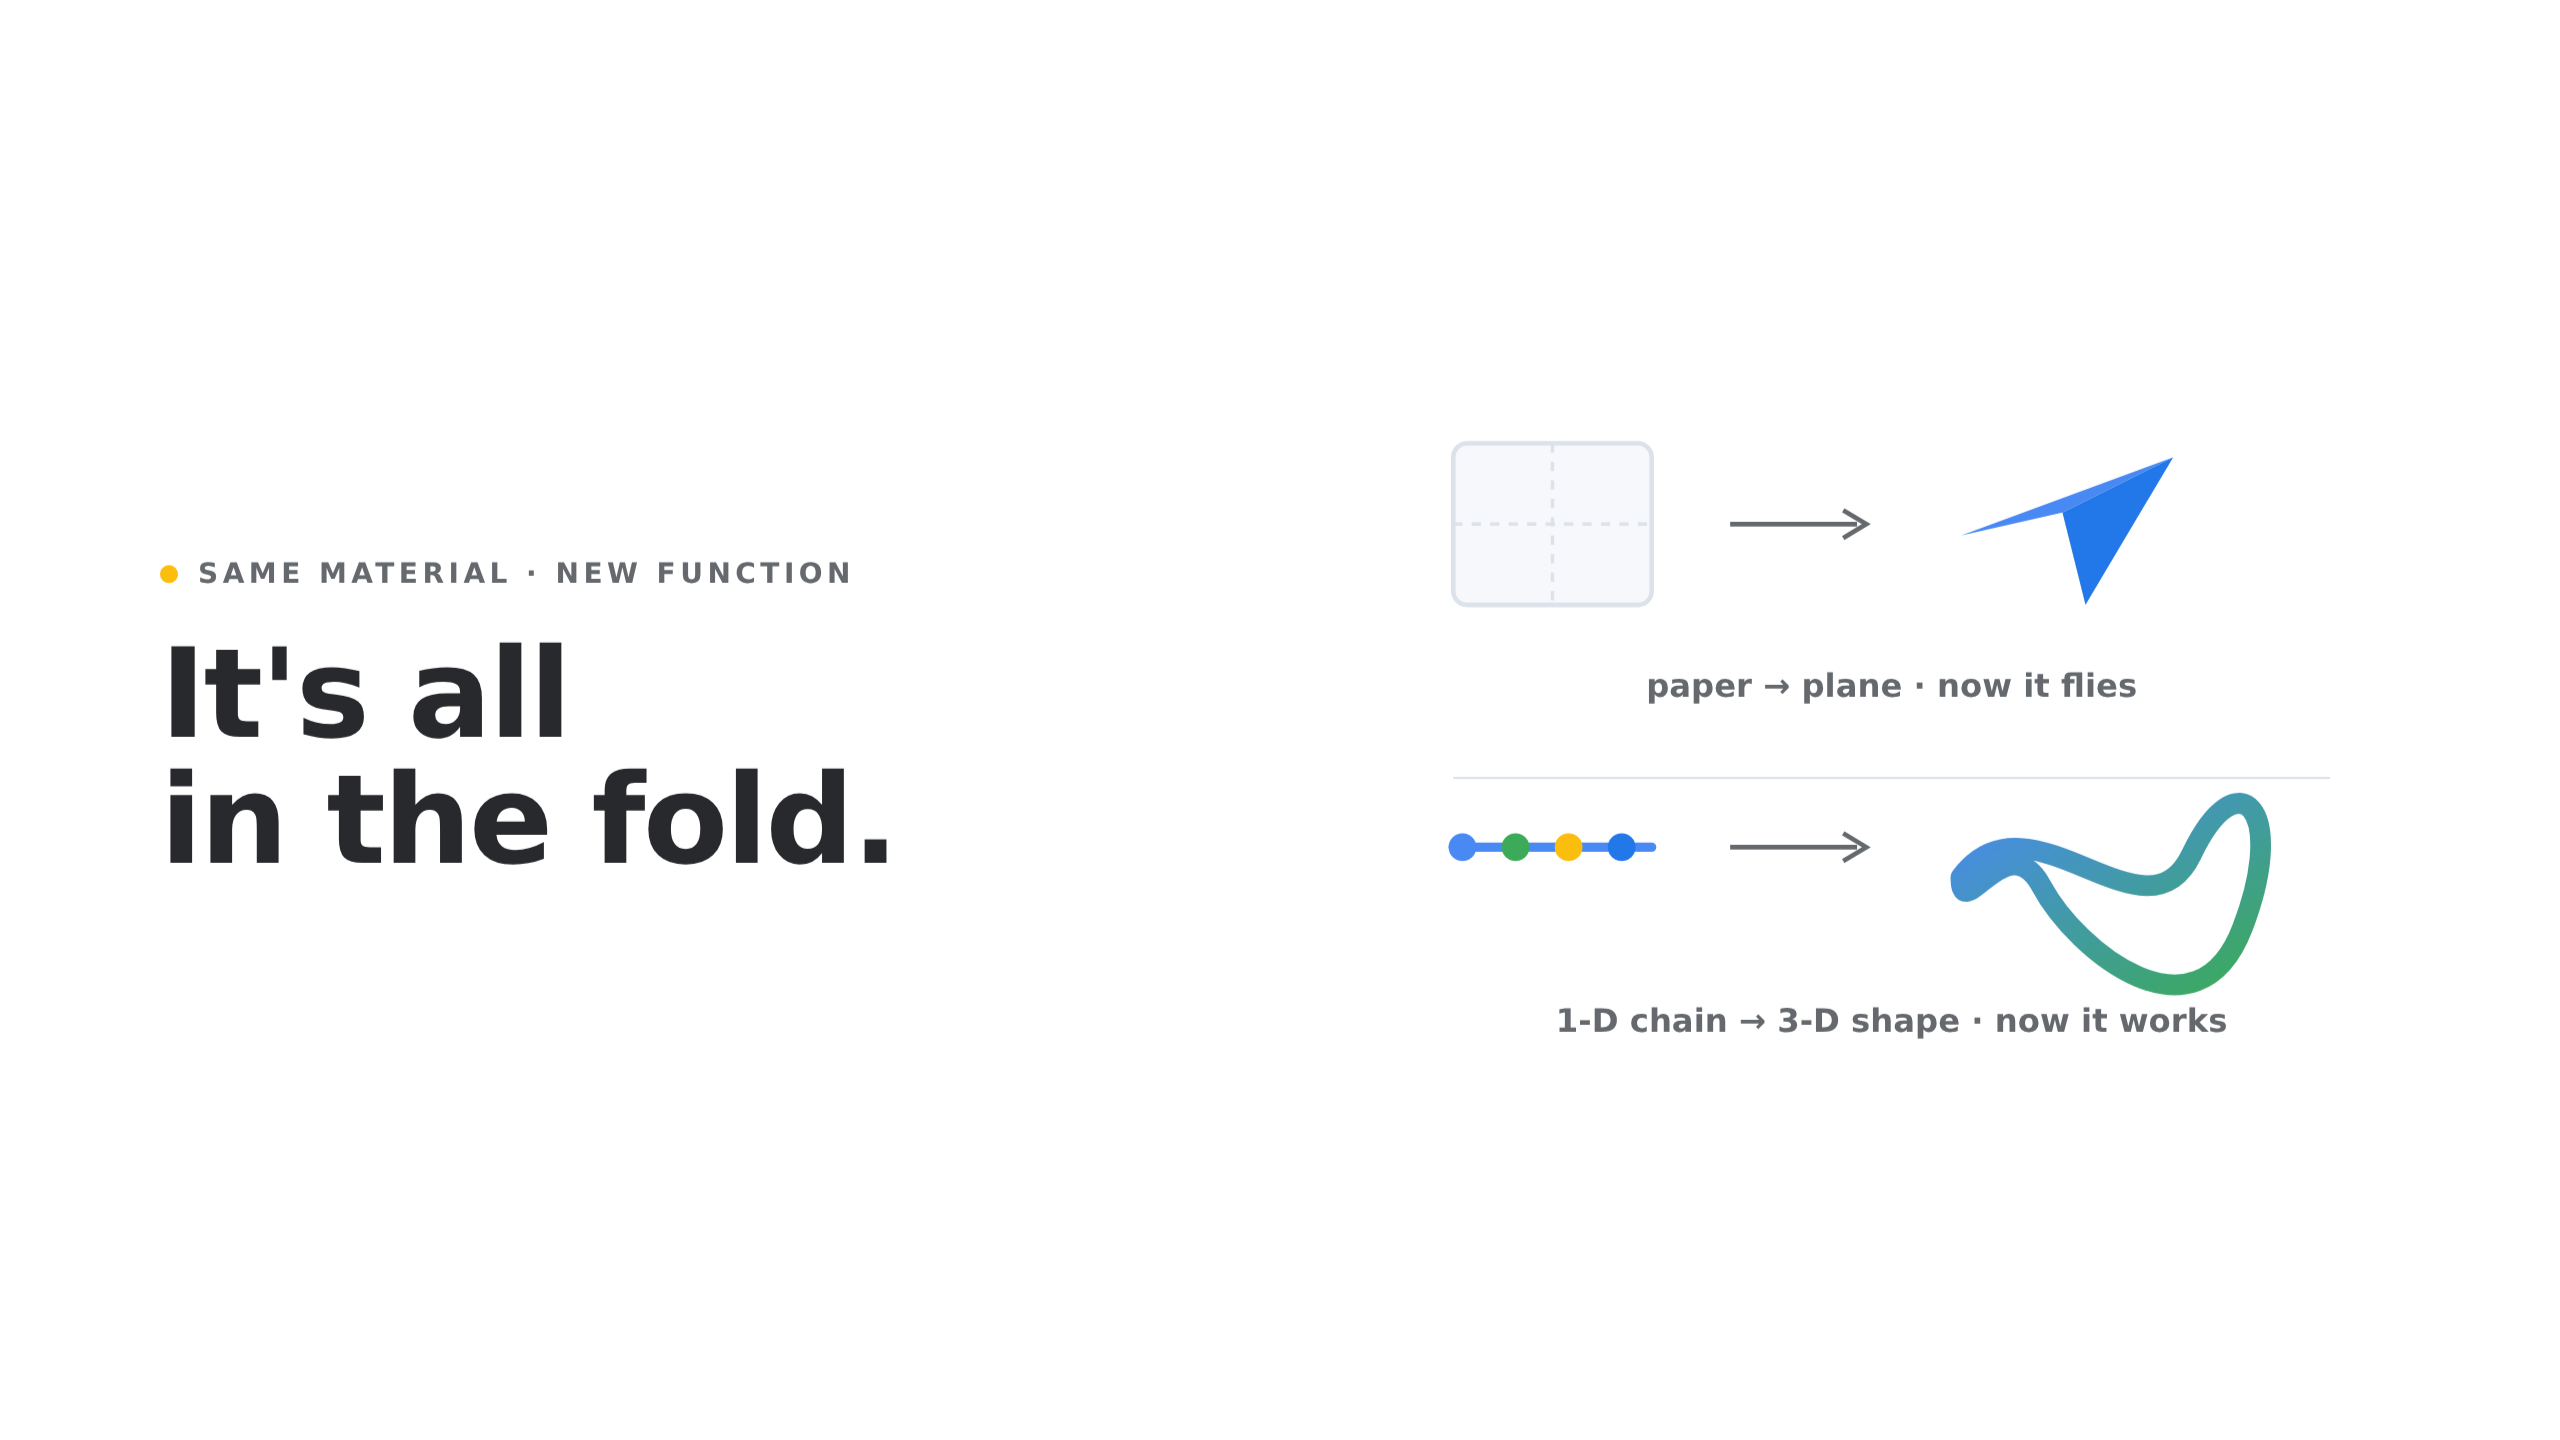
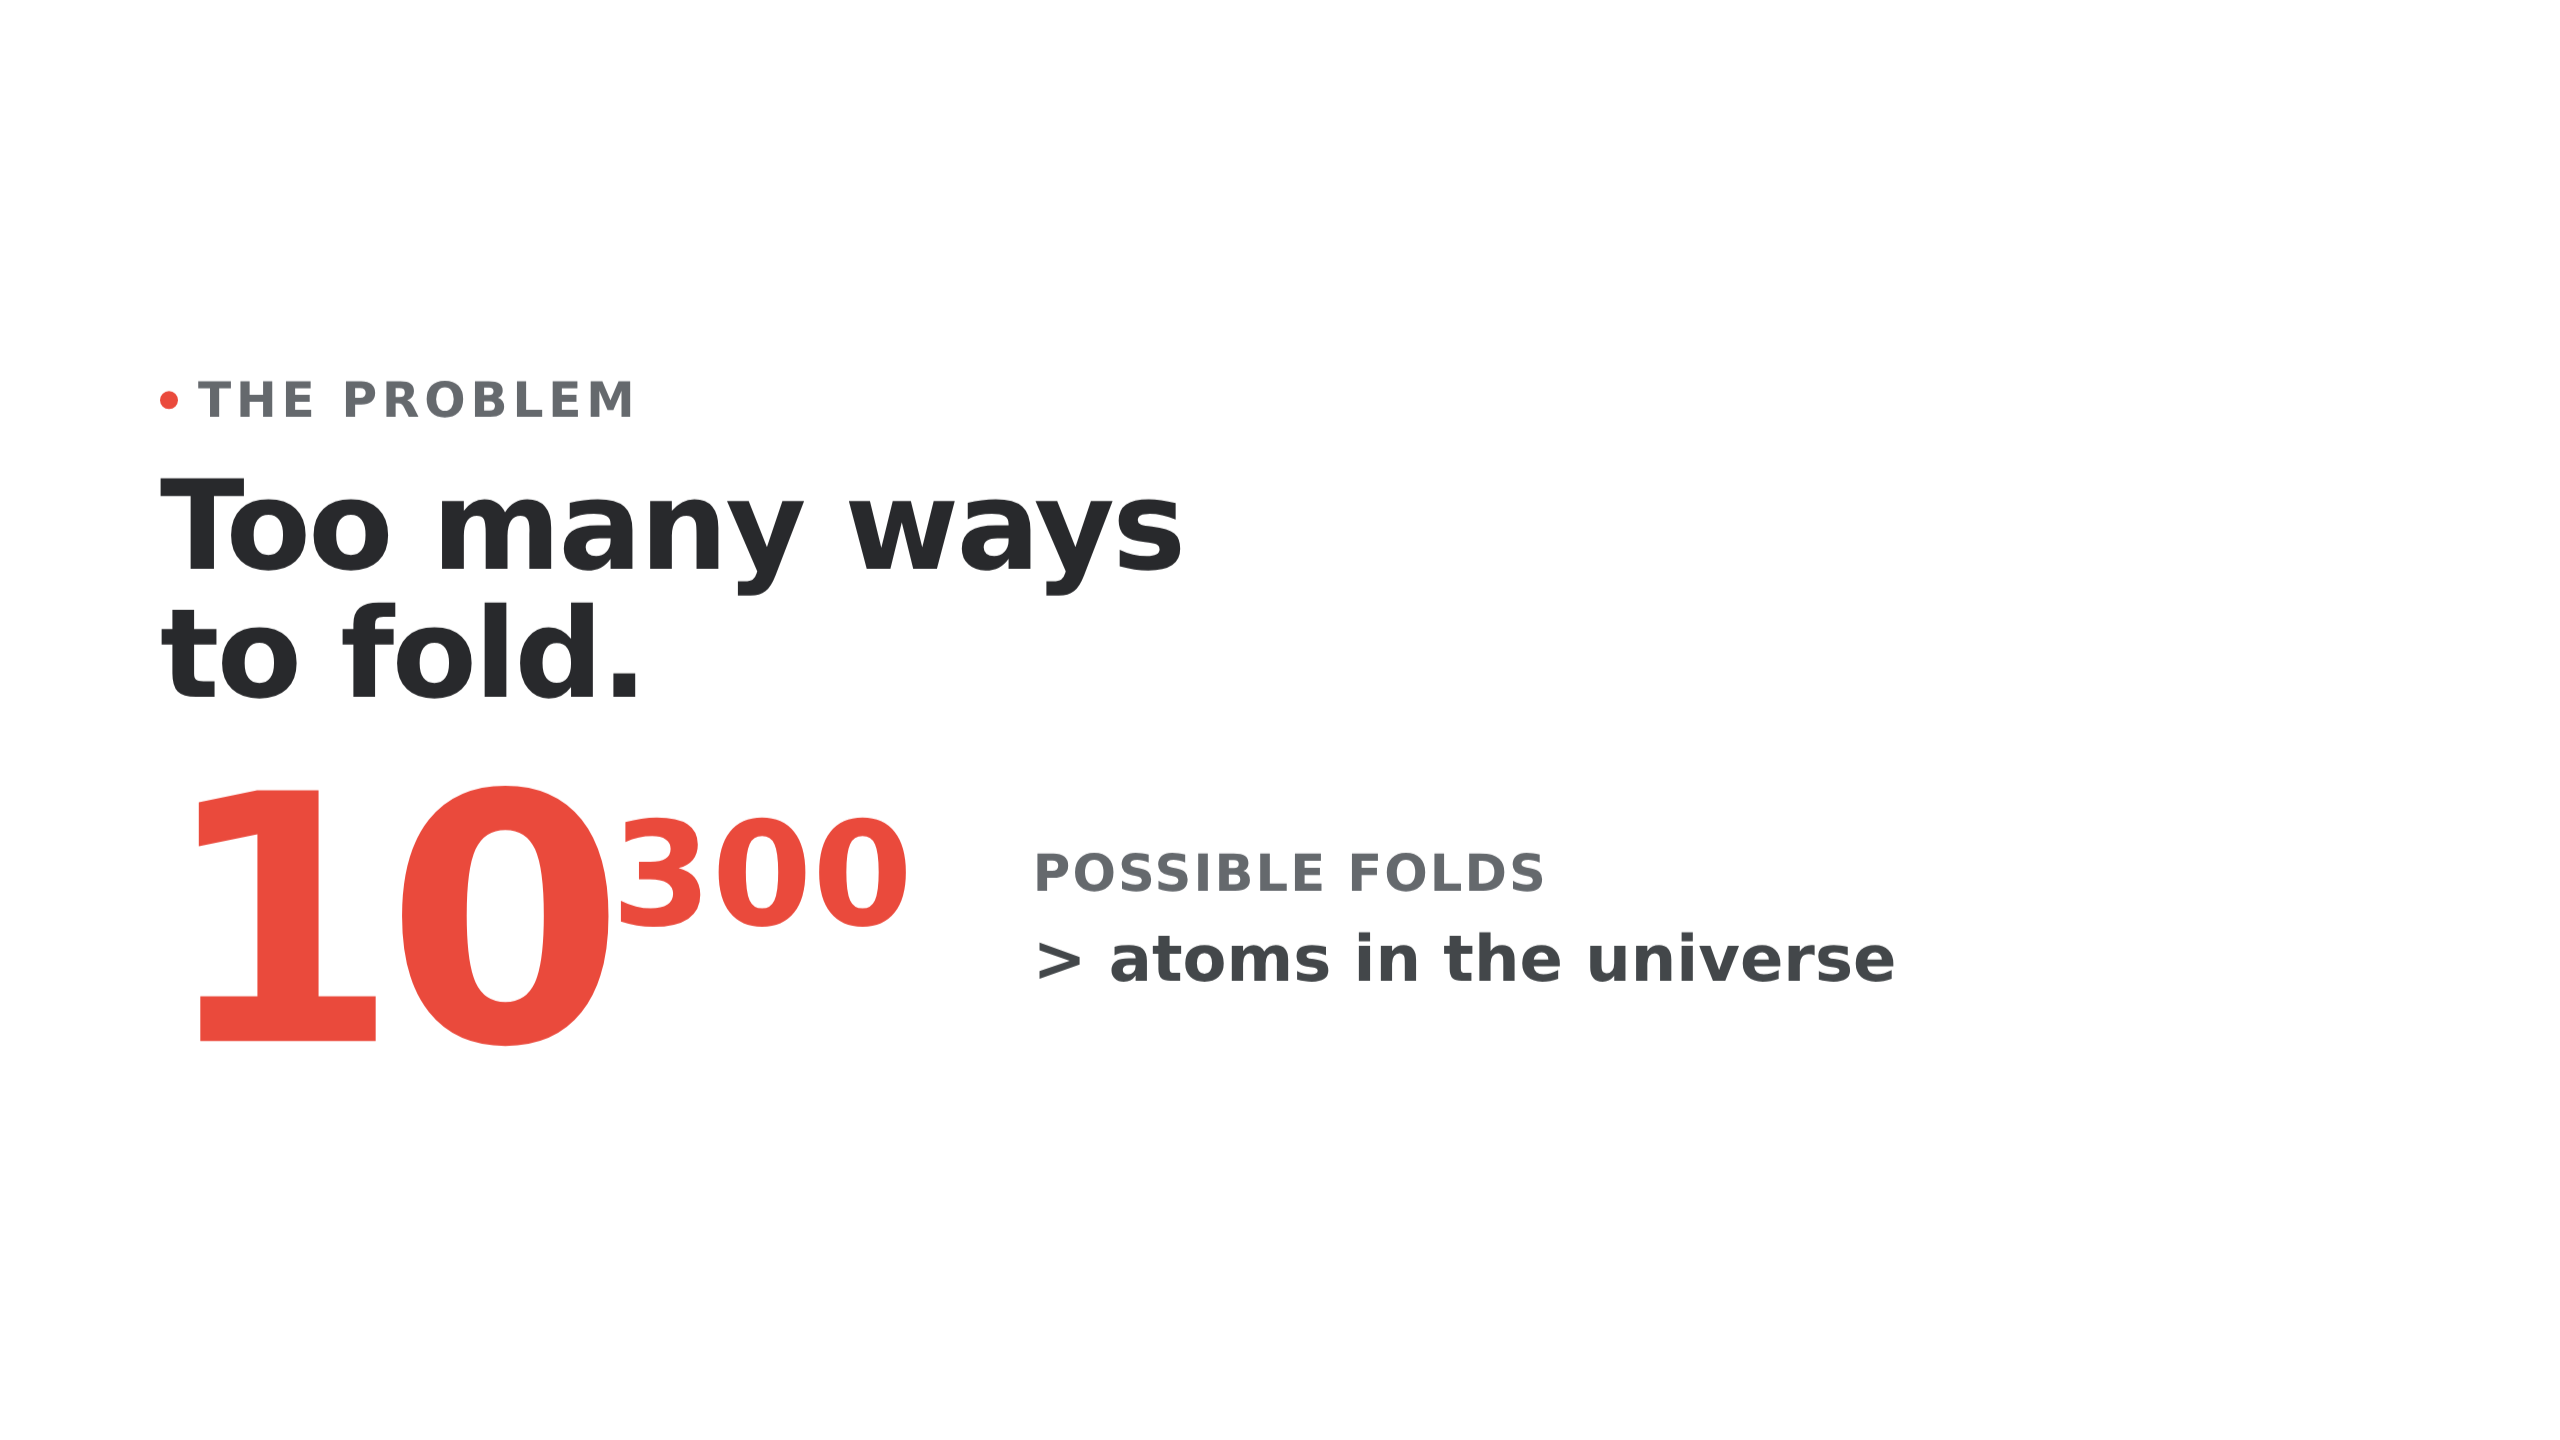
Merge why-it-matters + fold slides, enforce 24px text floor
Combine slides 2 and 3 into one (why-it-matters text + fold visuals,
annotations removed); remove title citation; raise all text to a 24px
minimum and stack the result-slide legend. Now 6 slides.

Claude-Session: https://claude.ai/code/session_01Bs5QxwcQxX81M5Q77HARNf

diff --git a/presentation/alphafold.html b/presentation/alphafold.html
@@ -94,8 +94,8 @@
   /* ---------- type ---------- */
   .eyebrow {
     display: inline-flex; align-items: center; gap: 10px;
-    font-size: clamp(11px, 1.3vw, 14px);
-    font-weight: 600; letter-spacing: .16em; text-transform: uppercase;
+    font-size: clamp(24px, 1.9vw, 26px);
+    font-weight: 600; letter-spacing: .1em; text-transform: uppercase;
     color: var(--muted);
   }
   .eyebrow .dot { width:9px; height:9px; border-radius:50%; }
@@ -109,8 +109,8 @@
     line-height: 1.02; margin: 0; font-weight: 700;
     letter-spacing: -.02em; text-wrap: balance;
   }
-  .lead { font-size: clamp(18px, 2.5vw, 27px); line-height: 1.32; color: var(--ink-soft); font-weight: 400; max-width: 60ch; margin:0; text-wrap: balance; }
-  .sub  { font-size: clamp(16px, 2vw, 22px); line-height: 1.5; color: var(--muted); max-width: 56ch; margin:0; }
+  .lead { font-size: clamp(26px, 2.7vw, 32px); line-height: 1.32; color: var(--ink-soft); font-weight: 400; max-width: 60ch; margin:0; text-wrap: balance; }
+  .sub  { font-size: clamp(24px, 2.4vw, 28px); line-height: 1.5; color: var(--muted); max-width: 56ch; margin:0; }
   .accent-blue { color: var(--g-blue-d); }
   .accent-red  { color: var(--g-red); }
   .accent-green{ color: var(--g-green); }
@@ -145,8 +145,8 @@
 
   .chips { display:flex; flex-wrap:wrap; gap:10px; }
   .chip {
-    font-size: clamp(14px,1.7vw,18px); font-weight:600;
-    padding: 10px 18px; border-radius: 999px;
+    font-size: clamp(24px,2vw,26px); font-weight:600;
+    padding: 11px 20px; border-radius: 999px;
     background: var(--panel-2); border:1px solid var(--line); color: var(--ink-soft);
   }
   .chip .k { width:9px; height:9px; border-radius:3px; display:inline-block; margin-right:8px; vertical-align: middle; }
@@ -160,8 +160,8 @@
     display:flex; flex-direction:column; gap: 10px;
   }
   .step .badge { width:32px; height:32px; border-radius:50%; display:grid; place-items:center; color:#fff; font-weight:700; font-size:15px; }
-  .step h3 { margin:0; font-size: clamp(15px,1.7vw,19px); font-weight:700; letter-spacing:-.01em; }
-  .step p  { margin:0; font-size: clamp(14px,1.7vw,17px); color: var(--muted); line-height:1.4; }
+  .step h3 { margin:0; font-size: clamp(26px,2.6vw,30px); font-weight:700; letter-spacing:-.01em; }
+  .step p  { margin:0; font-size: clamp(24px,2vw,26px); color: var(--muted); line-height:1.4; }
 
   /* ---------- big contrast ---------- */
   .contrast { display:grid; grid-template-columns: 1fr auto 1fr; align-items:center; gap: clamp(16px,3vw,40px); }
@@ -169,7 +169,7 @@
   .contrast .arrow { font-size: clamp(26px,3vw,40px); color: var(--muted); text-align:center; }
   @media (max-width: 820px){ .contrast .arrow { transform: rotate(90deg); } }
   .megn { font-weight:700; letter-spacing:-.04em; line-height:.86; font-variant-numeric: tabular-nums; }
-  .tag { font-size: clamp(13px,1.7vw,17px); font-weight:600; letter-spacing:.04em; text-transform:uppercase; color:var(--muted); }
+  .tag { font-size: clamp(24px,2vw,26px); font-weight:600; letter-spacing:.04em; text-transform:uppercase; color:var(--muted); }
 
   svg { display:block; width:100%; height:auto; overflow: visible; }
   .visual { width:100%; }
@@ -221,7 +221,7 @@
     font-family: var(--sans);
   }
 
-  .src { font-size: clamp(12px,1.35vw,15px); color: var(--muted); }
+  .src { font-size: clamp(24px,1.9vw,26px); color: var(--muted); }
 </style>
 
 <div class="deck" id="deck">
@@ -232,8 +232,7 @@
       <div class="title-wrap">
         <div class="eyebrow rise"><span class="dot" style="background:var(--g-blue)"></span> Google DeepMind · Nature, 2021</div>
         <h1 class="wordmark rise"><span class="a1">A</span><span class="a2">l</span><span class="a3">p</span><span class="a4">h</span><span class="a5">a</span><span class="a6">F</span><span class="a7">o</span><span class="a8">l</span><span class="a9">d</span></h1>
-        <p class="lead rise" style="font-weight:600; font-size:clamp(22px,3.4vw,40px);"><span class="accent-red">1-D sequence</span> &nbsp;→&nbsp; <span class="accent-blue">3-D shape</span>?</p>
-        <div class="src rise">Jumper et&nbsp;al. “Highly accurate protein structure prediction with AlphaFold.” <i>Nature</i> 596, 583–589 (2021).</div>
+        <p class="lead rise" style="font-weight:600; font-size:clamp(28px,3.8vw,46px);"><span class="accent-red">1-D sequence</span> &nbsp;→&nbsp; <span class="accent-blue">3-D shape</span>?</p>
       </div>
     </div>
   </section>
@@ -245,45 +244,10 @@
         <div style="display:flex; flex-direction:column; gap: 20px;">
           <div class="eyebrow rise"><span class="dot" style="background:var(--g-blue)"></span> Why it matters</div>
           <h2 class="rise">Shape<br>= function.</h2>
-          <p class="sub rise" style="font-size:clamp(17px,2vw,24px); font-weight:600;">misfold → <span class="accent-red">disease</span></p>
+          <p class="sub rise" style="font-weight:600;">misfold → <span class="accent-red">disease</span></p>
         </div>
         <div class="visual rise" aria-hidden="true">
-          <svg viewBox="0 0 420 300">
-            <defs>
-              <linearGradient id="good" x1="0" y1="0" x2="1" y2="1">
-                <stop offset="0" stop-color="#4285F4"/><stop offset="1" stop-color="#1a73e8"/>
-              </linearGradient>
-            </defs>
-            <!-- healthy fold -->
-            <g>
-              <path d="M40 150 C 70 80, 130 200, 165 130 S 210 90, 195 160 S 120 210, 90 175 S 40 195, 40 150 Z"
-                    fill="none" stroke="url(#good)" stroke-width="11" stroke-linecap="round" stroke-linejoin="round"/>
-              <text x="118" y="250" text-anchor="middle" font-size="16" font-weight="700" fill="var(--g-blue-d)">Folds right</text>
-              <text x="118" y="272" text-anchor="middle" font-size="14" fill="var(--muted)">it works</text>
-            </g>
-            <!-- misfold -->
-            <g>
-              <path d="M255 150 C 300 110, 270 175, 320 150 C 360 130, 300 200, 350 185 C 385 175, 320 140, 300 165 C 280 190, 335 205, 300 160"
-                    fill="none" stroke="var(--g-red)" stroke-width="11" stroke-linecap="round" stroke-linejoin="round"/>
-              <text x="315" y="250" text-anchor="middle" font-size="16" font-weight="700" fill="var(--g-red)">Folds wrong</text>
-              <text x="315" y="272" text-anchor="middle" font-size="14" fill="var(--muted)">disease</text>
-            </g>
-          </svg>
-        </div>
-      </div>
-    </div>
-  </section>
-
-  <!-- 3 · THE FOLD (paper plane) -->
-  <section class="slide" data-notes="fold">
-    <div class="inner">
-      <div class="grid2">
-        <div style="display:flex; flex-direction:column; gap: 20px;">
-          <div class="eyebrow rise"><span class="dot" style="background:var(--g-yellow)"></span> Same material · new function</div>
-          <h2 class="rise">It's all<br>in the fold.</h2>
-        </div>
-        <div class="visual rise" aria-hidden="true">
-          <svg viewBox="0 0 440 320">
+          <svg viewBox="0 0 440 270">
             <defs>
               <linearGradient id="goodB" x1="0" y1="0" x2="1" y2="1">
                 <stop offset="0" stop-color="#4285F4"/><stop offset="1" stop-color="#34A853"/>
@@ -291,39 +255,30 @@
             </defs>
             <!-- Row 1: paper -> plane -->
             <g>
-              <!-- flat sheet -->
-              <rect x="30" y="40" width="86" height="70" rx="6" fill="var(--panel)" stroke="var(--line)" stroke-width="2"/>
-              <line x1="73" y1="40" x2="73" y2="110" stroke="var(--line)" stroke-width="1.5" stroke-dasharray="4 4"/>
-              <line x1="30" y1="75" x2="116" y2="75" stroke="var(--line)" stroke-width="1.5" stroke-dasharray="4 4"/>
-              <!-- arrow -->
+              <rect x="30" y="34" width="86" height="70" rx="6" fill="var(--panel)" stroke="var(--line)" stroke-width="2"/>
+              <line x1="73" y1="34" x2="73" y2="104" stroke="var(--line)" stroke-width="1.5" stroke-dasharray="4 4"/>
+              <line x1="30" y1="69" x2="116" y2="69" stroke="var(--line)" stroke-width="1.5" stroke-dasharray="4 4"/>
               <g stroke="var(--muted)" stroke-width="2" fill="none">
-                <line x1="150" y1="75" x2="205" y2="75"/><path d="M199 69 L209 75 L199 81"/>
+                <line x1="150" y1="69" x2="205" y2="69"/><path d="M199 63 L209 69 L199 75"/>
               </g>
-              <!-- paper plane -->
-              <g transform="translate(250,40)">
+              <g transform="translate(250,34)">
                 <path d="M0 40 L92 6 L44 30 Z" fill="var(--g-blue)"/>
                 <path d="M44 30 L92 6 L54 70 Z" fill="var(--g-blue-d)"/>
               </g>
-              <text x="220" y="150" text-anchor="middle" font-size="14" font-weight="600" fill="var(--muted)">paper → plane · now it flies</text>
             </g>
-            <!-- divider -->
-            <line x1="30" y1="185" x2="410" y2="185" stroke="var(--line)" stroke-width="1"/>
+            <line x1="30" y1="150" x2="410" y2="150" stroke="var(--line)" stroke-width="1"/>
             <!-- Row 2: chain -> fold -->
-            <g transform="translate(0,110)">
-              <!-- 1D chain -->
+            <g transform="translate(0,86)">
               <g>
                 <line x1="30" y1="105" x2="116" y2="105" stroke="var(--g-blue)" stroke-width="4" stroke-linecap="round"/>
                 <circle cx="34" cy="105" r="6" fill="var(--g-blue)"/><circle cx="57" cy="105" r="6" fill="var(--g-green)"/>
                 <circle cx="80" cy="105" r="6" fill="var(--g-yellow)"/><circle cx="103" cy="105" r="6" fill="var(--g-blue-d)"/>
               </g>
-              <!-- arrow -->
               <g stroke="var(--muted)" stroke-width="2" fill="none">
                 <line x1="150" y1="105" x2="205" y2="105"/><path d="M199 99 L209 105 L199 111"/>
               </g>
-              <!-- folded ribbon -->
               <path d="M250 118 C 280 78, 330 150, 350 108 S 392 88, 372 140 S 300 150, 285 122 S 250 140, 250 118 Z"
                     fill="none" stroke="url(#goodB)" stroke-width="9" stroke-linecap="round" stroke-linejoin="round"/>
-              <text x="220" y="185" text-anchor="middle" font-size="14" font-weight="600" fill="var(--muted)">1-D chain → 3-D shape · now it works</text>
             </g>
           </svg>
         </div>
@@ -331,7 +286,7 @@
     </div>
   </section>
 
-  <!-- 4 · CONFLICT -->
+  <!-- 3 · CONFLICT -->
   <section class="slide" data-notes="conflict">
     <div class="inner">
       <div class="eyebrow rise"><span class="dot" style="background:var(--g-red)"></span> The problem</div>
@@ -391,11 +346,11 @@
             <path d="M74 164 C 104 94, 164 214, 199 144 S 254 104, 239 174 S 154 224, 124 189 S 74 209, 74 164 Z"
                   fill="none" stroke="var(--g-blue)" stroke-width="4.5" stroke-linecap="round" stroke-linejoin="round" stroke-dasharray="2 5" opacity="0.9"/>
             <!-- legend -->
-            <g font-size="15" font-weight="600">
-              <rect x="70" y="255" width="16" height="6" rx="3" fill="var(--g-green)"/>
-              <text x="94" y="261" fill="var(--muted)">experiment</text>
-              <rect x="205" y="255" width="16" height="6" rx="3" fill="var(--g-blue)"/>
-              <text x="229" y="261" fill="var(--muted)">AlphaFold</text>
+            <g font-size="21" font-weight="600">
+              <rect x="86" y="250" width="20" height="7" rx="3" fill="var(--g-green)"/>
+              <text x="116" y="258" fill="var(--muted)">experiment</text>
+              <rect x="86" y="280" width="20" height="7" rx="3" fill="var(--g-blue)"/>
+              <text x="116" y="288" fill="var(--muted)">AlphaFold</text>
             </g>
           </svg>
         </div>
@@ -436,7 +391,7 @@
   AlphaFold
 </div>
 <button class="toggle" id="themeBtn" aria-label="Toggle light or dark theme">Theme</button>
-<div class="counter" id="counter">01 / 07</div>
+<div class="counter" id="counter">01 / 06</div>
 <div class="rail" id="rail" aria-hidden="true"></div>
 <div class="arrows">
   <button id="prev" aria-label="Previous slide">‹</button>
